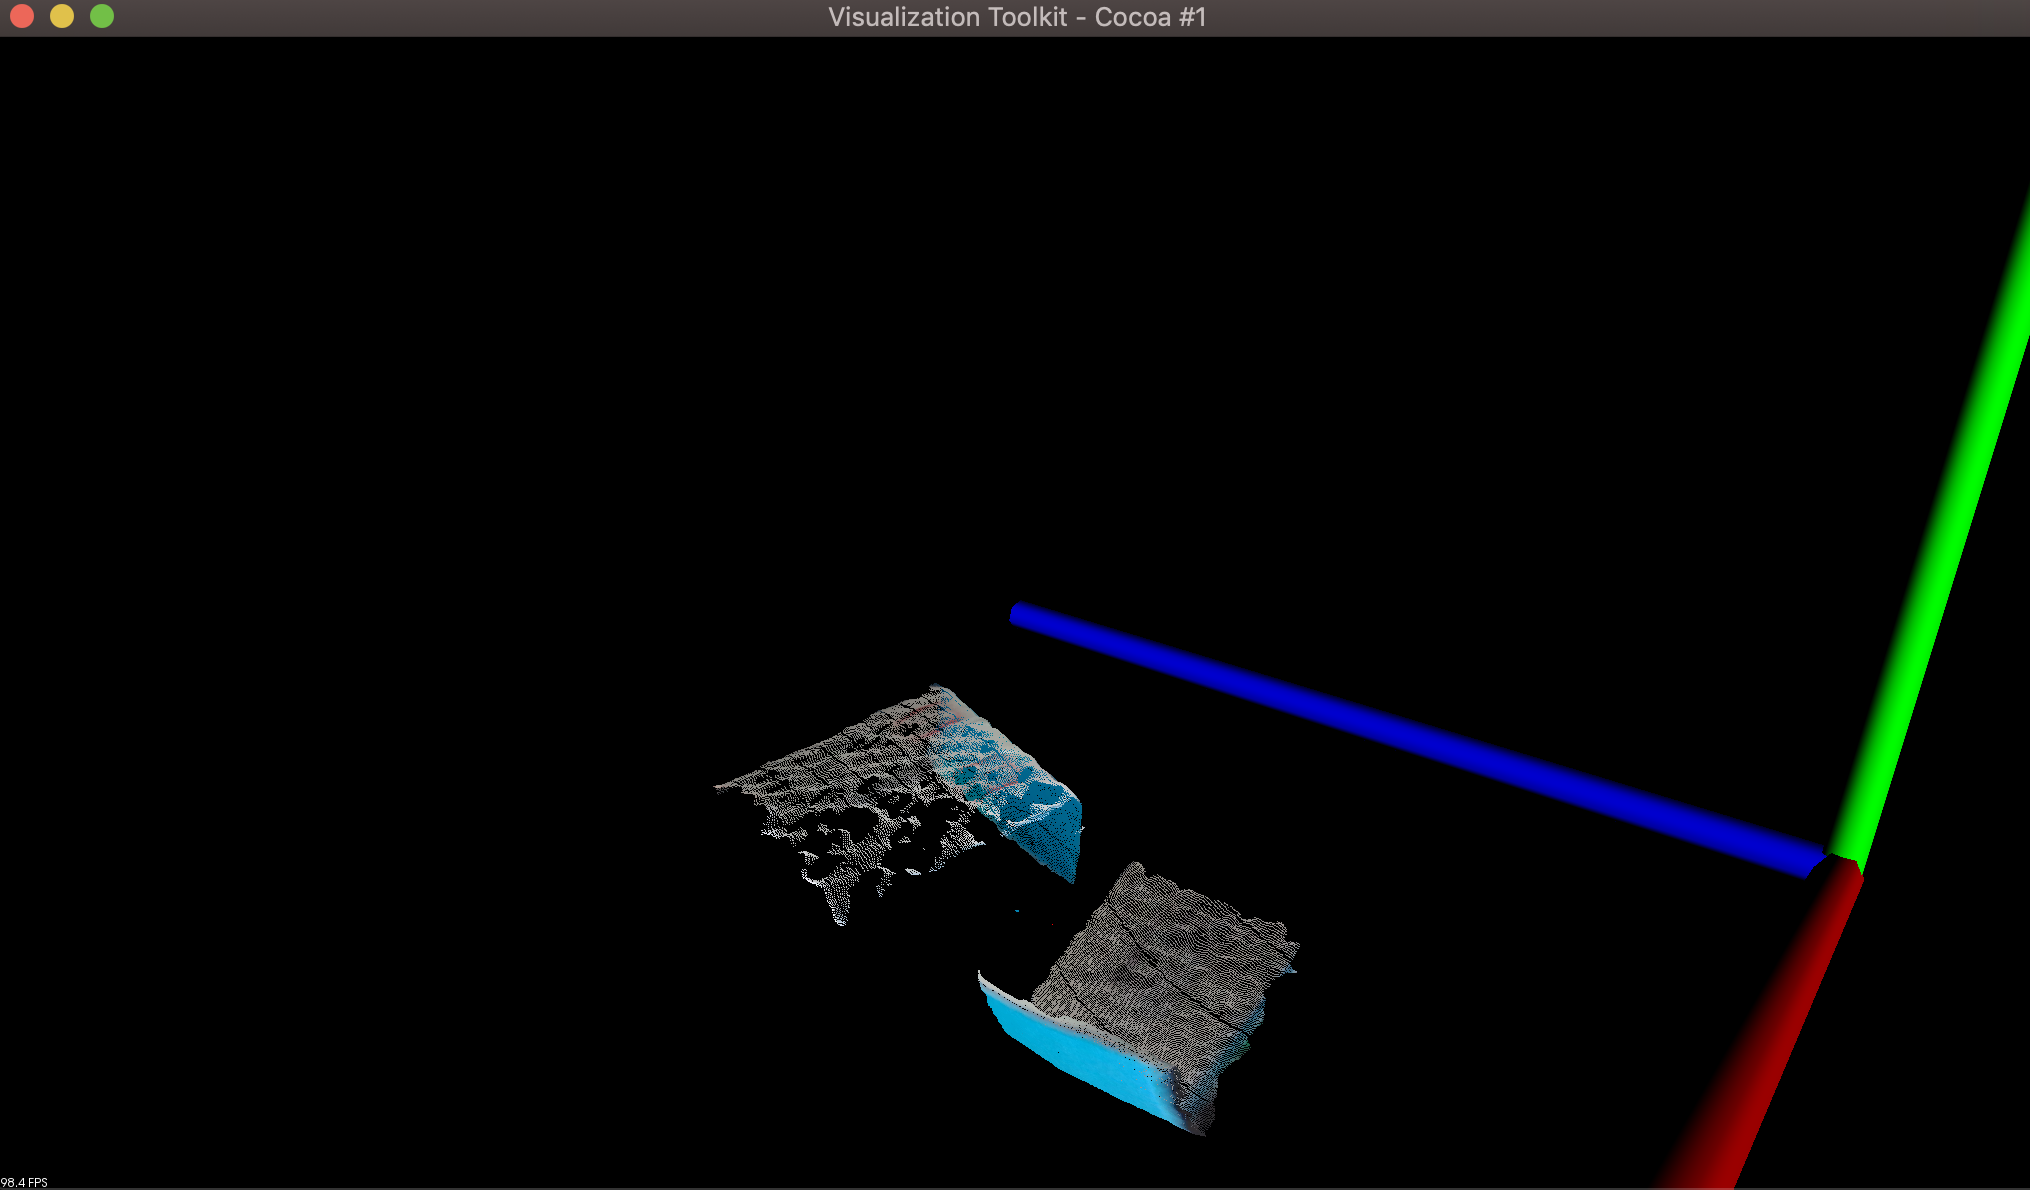
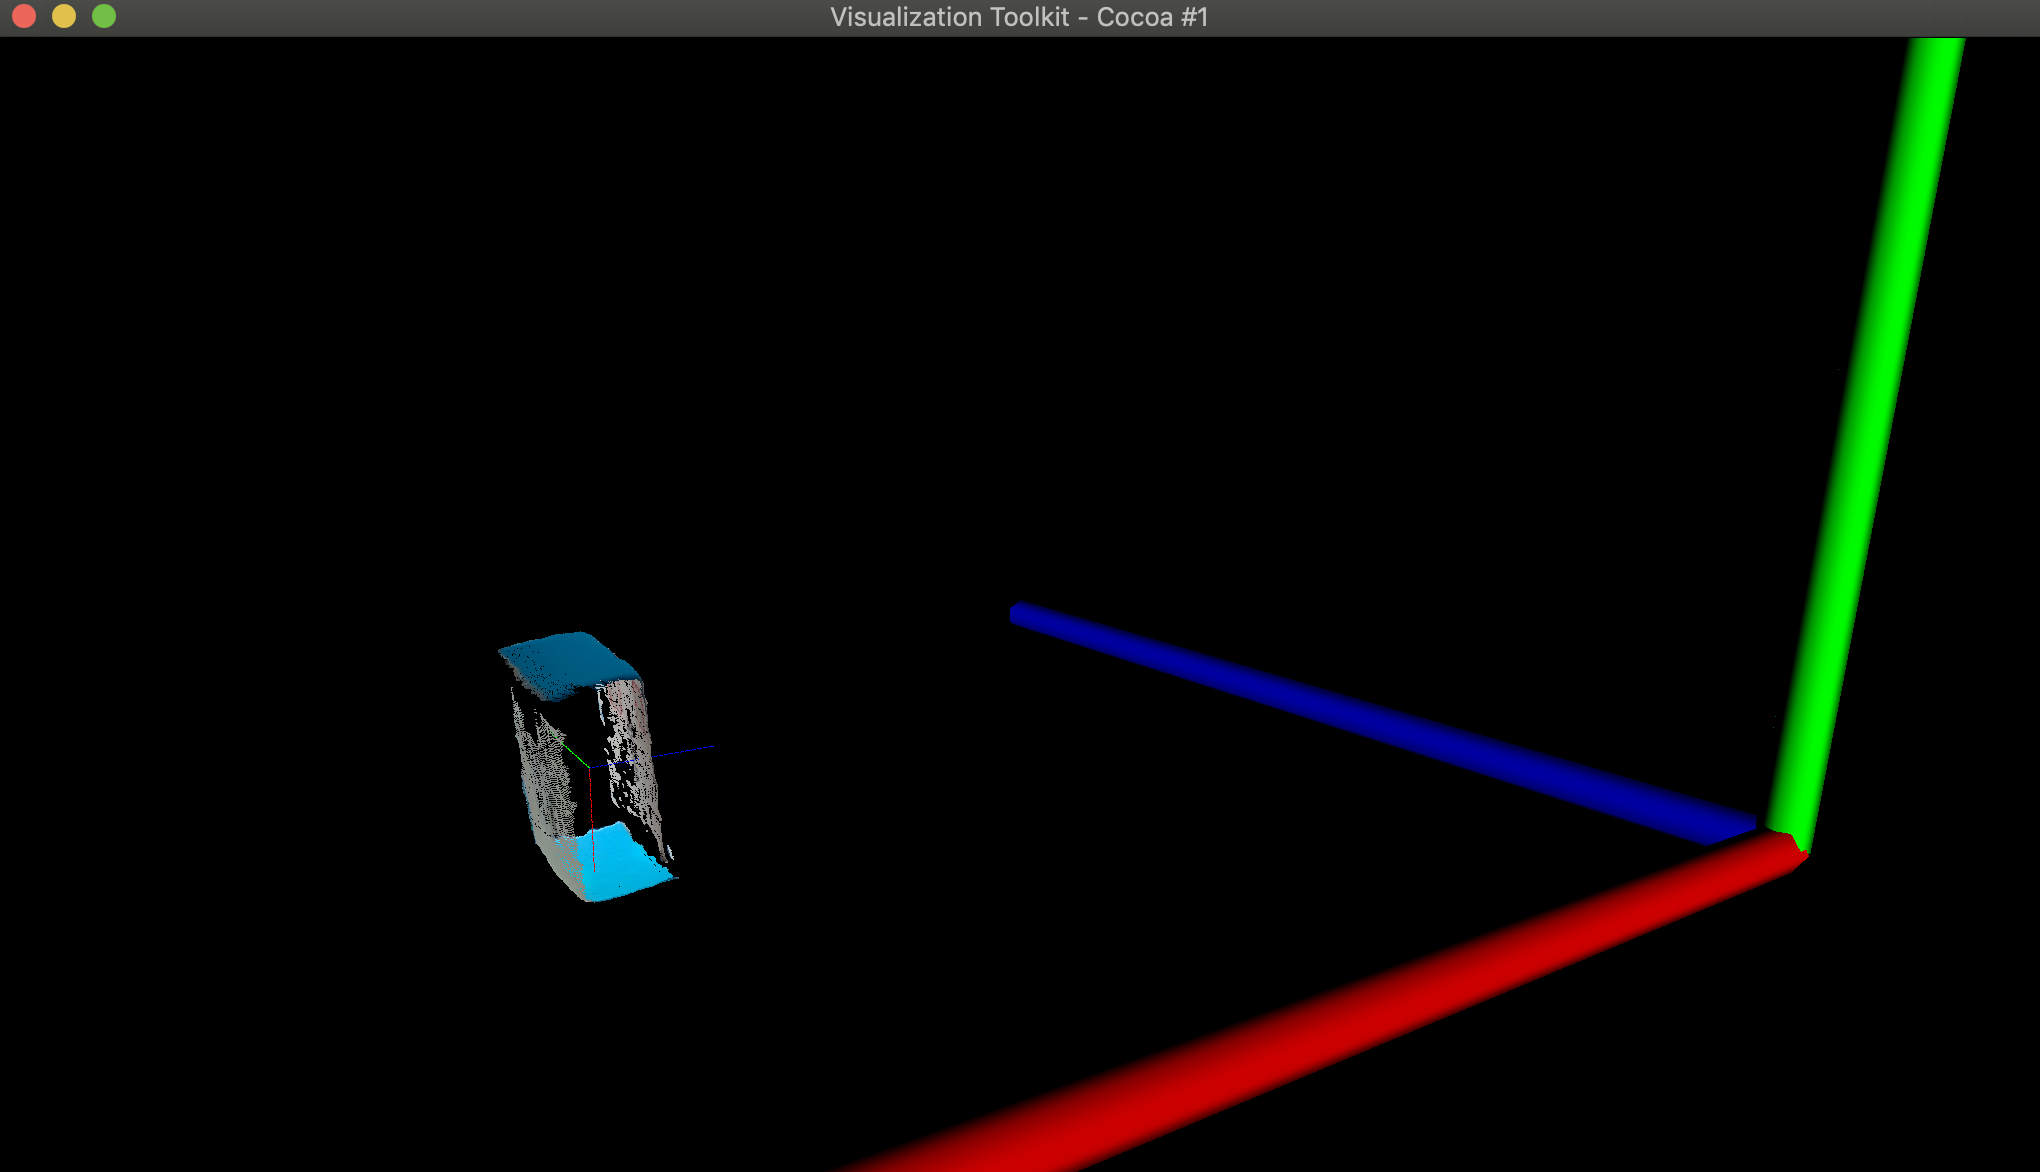
Submit for review.

Changed region(s): [[0.2483, 0.0307, 1.0, 1.0], [0.4034, 0.0, 0.5897, 0.0307], [0.0, 0.9829, 0.031, 1.0]]

diff --git a/main.cpp b/main.cpp
@@ -9,6 +9,7 @@
 #include <pcl/filters/passthrough.h>
 #include <pcl/common/centroid.h>
 #include <pcl/common/transforms.h>
+#include <pcl/features/gasd.h>
 
 #include "png2pcd.h"
 
@@ -19,25 +20,26 @@ using namespace pcl::visualization;
 
 
 const struct cam_intrinsics cam_8022_intrin {
-  923.121216,
-  922.401917,
-  639.088623,
-  374.246979,
-  1280,
-  720
+  .fx     = 923.121216,
+  .fy     = 922.401917,
+  .ppx    = 639.088623,
+  .ppy    = 374.246979,
+  .width  = 1280,
+  .height = 720
 };
 
 const struct cam_intrinsics cam_8213_intrin {
-  931.251526,
-  931.601929,
-  636.607727,
-  367.57843,
-  1280,
-  720
+  .fx     = 931.251526,
+  .fy     = 931.601929,
+  .ppx    = 636.607727,
+  .ppy    = 367.57843,
+  .width  = 1280,
+  .height = 720
 };
 
 
-void point_picking_cb(const visualization::PointPickingEvent& event) {
+void point_picking_cb(const visualization::PointPickingEvent& event)
+{
   if (event.getPointIndex() != -1) {
     float x, y, z;
     event.getPoint(x, y, z);
@@ -53,19 +55,6 @@ void rigid_transform_8022 (PointCloud<PointXYZRGB>& cloud_in, PointCloud<PointXY
       -0.0223710343097415, -0.9919110665818123, 0.12494788039996335, 0.38599111429878424,
       0, 0, 0, 1;
 
-  Eigen::Matrix3f R_T;
-  R_T << cam_extrinsics.topLeftCorner(3, 3).transpose();
-  Eigen::Vector3f t;
-  t << cam_extrinsics.topRightCorner(3, 1);
-
-  Eigen::Matrix4f homo_trans;
-  homo_trans << R_T, -(R_T * t),
-	  Eigen::MatrixXf::Zero(1, 3), 1;
-
-  std::cout << "R_T " << R_T << std::endl;
-  std::cout << "t " << t << std::endl;
-  std::cout << "homo_trans " << homo_trans << std::endl;
-
   transformPointCloud(cloud_in, cloud_out, cam_extrinsics);
 }
 
@@ -77,16 +66,44 @@ void rigid_transform_8213 (PointCloud<PointXYZRGB>& cloud_in, PointCloud<PointXY
       -0.9989978864244434, -0.039585664825330144, 0.020885355152154568, 0.39505420278238745,
       0, 0, 0, 1;
 
-  Eigen::Matrix3f R_T;
-  R_T << cam_extrinsics.topLeftCorner(3, 3).transpose();
-  Eigen::Vector3f t;
-  t << cam_extrinsics.topRightCorner(3, 1);
-
-  Eigen::Matrix4f homo_trans;
-  homo_trans << R_T, -(R_T * t),
-	  Eigen::MatrixXf::Zero(1, 3), 1;
-
   transformPointCloud(cloud_in, cloud_out, cam_extrinsics);
+}
+
+boost::shared_ptr<PCLVisualizer> visualize_box(PointCloud<PointXYZRGB>::Ptr box_cloud_ptr,
+    Eigen::Matrix4f& inv_trans)
+{
+  PointCloud<PointXYZRGB> cust_axis;
+  cust_axis.is_dense = false;
+  cust_axis.resize(300);
+  for (int i = 0; i < 100; i++) {
+    PointXYZRGB axis_x;
+    axis_x.x = 0.001 * i;
+    axis_x.r = 255;
+    cust_axis.points.push_back(axis_x);
+  }
+  for (int i = 0; i < 100; i++) {
+    PointXYZRGB axis_y;
+    axis_y.y = 0.001 * i;
+    axis_y.g = 255;
+    cust_axis.points.push_back(axis_y);
+  }
+  for (int i = 0; i < 100; i++) {
+    PointXYZRGB axis_z;
+    axis_z.z = 0.001 * i;
+    axis_z.b = 255;
+    cust_axis.points.push_back(axis_z);
+  }
+  transformPointCloud(cust_axis, cust_axis, inv_trans);
+
+  *box_cloud_ptr += cust_axis;
+
+  boost::shared_ptr<PCLVisualizer> viewer (new PCLVisualizer ("3D Viewer"));
+  viewer->addPointCloud(box_cloud_ptr, "box");
+  viewer->registerPointPickingCallback(point_picking_cb);
+  viewer->addCoordinateSystem (1.0);
+  viewer->initCameraParameters();
+
+  return viewer;
 }
 
 int main(int argc, char** argv) {
@@ -116,64 +133,76 @@ int main(int argc, char** argv) {
     print_error("Failed to generate PointCloud.\n");
     return -1;
   }
-#if 0
+
   /**
-   * Using PassThrough Filter to get box
-   */
-  PassThrough<PointXYZRGB> pass;
-  pass.setInputCloud(cloud_8022_ptr);
-  pass.setFilterFieldName("y");
-  pass.setFilterLimits(0, 0.15f);
-  pass.filter(*cloud_8022_ptr);
-
-  pass.setInputCloud(cloud_8022_ptr);
-  pass.setFilterFieldName("z");
-  pass.setFilterLimits(0.4f, 0.7f);
-  pass.filter(*cloud_8022_ptr);
-
-  pass.setInputCloud(cloud_8213_ptr);
-  pass.setFilterFieldName("x");
-  pass.setFilterLimits(0, 0.2f);
-  pass.filter(*cloud_8213_ptr);
-
-  pass.setInputCloud(cloud_8213_ptr);
-  pass.setFilterFieldName("z");
-  pass.setFilterLimits(0.4f, 0.6f);
-  pass.filter(*cloud_8213_ptr);
-#endif
-  /**
-   * Rigid homogeneous transform camera coordinate to
+   * Rigid homogeneous transform camera coordinate back to
    * world coordinate.
    */
   rigid_transform_8022(*cloud_8022_ptr, *cloud_8022_ptr);
   rigid_transform_8213(*cloud_8213_ptr, *cloud_8213_ptr);
 
   /**
-   * Concatenate two halves and compute centroid of the box
+   * Concatenate two half-box
    */
   PointCloud<PointXYZRGB>::Ptr box_cloud_ptr (new PointCloud<PointXYZRGB>);
   *box_cloud_ptr = *cloud_8022_ptr;
   *box_cloud_ptr += *cloud_8213_ptr;
 
-  Eigen::Vector4f centroid;
-  compute3DCentroid(*box_cloud_ptr, centroid);
-  PointXYZRGB center_p;
-  center_p.r = 255;
-  center_p.g = 0;
-  center_p.b = 0;
-  center_p.x = centroid(0);
-  center_p.y = centroid(1);
-  center_p.z = centroid(2);
-  box_cloud_ptr->points.push_back(center_p);
-  pcl::console::print_info("Centroid x:%f y:%f z:%f\n",
-      centroid(0), centroid(1), centroid(2));
+  /**
+   * Using PassThrough Filter to get box
+   */
+  PassThrough<PointXYZRGB> pass;
 
-  visualization::PCLVisualizer viewer("3D viewer");
-  viewer.addPointCloud(box_cloud_ptr, "box");
-  viewer.registerPointPickingCallback(point_picking_cb);
-  viewer.addCoordinateSystem (1.0);
-  viewer.initCameraParameters();
-  viewer.spin();
+  pass.setInputCloud(box_cloud_ptr);
+  pass.setFilterFieldName("x");
+  pass.setFilterLimits(0.6f, 0.9f);
+  pass.filter(*box_cloud_ptr);
+
+  pass.setInputCloud(box_cloud_ptr);
+  pass.setFilterFieldName("y");
+  pass.setFilterLimits(-0.15f, 0.15f);
+  pass.filter(*box_cloud_ptr);
+
+  pass.setInputCloud(box_cloud_ptr);
+  pass.setFilterFieldName("z");
+  pass.setFilterLimits(0.3f, 0.613f);
+  pass.filter(*box_cloud_ptr);
+
+  /**
+   * Using Globally Aligned Spatial Distribution (GASD) descriptors
+   * to estimate box pose
+   */
+  GASDColorEstimation<PointXYZRGB, pcl::GASDSignature984> gasd;
+  gasd.setInputCloud(box_cloud_ptr);
+  PointCloud<pcl::GASDSignature984> descriptor;
+  gasd.compute(descriptor);
+  Eigen::Matrix4f transformation = gasd.getTransform();
+  print_info ("Alignment transform matrix:\n");
+  print_info ("    | %6.3f %6.3f %6.3f | \n", transformation (0,0), transformation (0,1), transformation (0,2));
+  print_info ("R = | %6.3f %6.3f %6.3f | \n", transformation (1,0), transformation (1,1), transformation (1,2));
+  print_info ("    | %6.3f %6.3f %6.3f | \n", transformation (2,0), transformation (2,1), transformation (2,2));
+  print_info ("\n");
+  print_info ("t = < %0.3f, %0.3f, %0.3f >\n", transformation (0,3), transformation (1,3), transformation (2,3));
+  print_info ("\n");
+
+  /**
+   * GASD aligned box shape to our world frame, thus the
+   * inverse translation (-R_T * t) of above alignment matrix
+   * is where the box center located.
+   */
+  Eigen::Matrix3f R_T;
+  R_T = transformation.topLeftCorner(3, 3).transpose();
+  Eigen::Vector3f t;
+  t = transformation.topRightCorner(3, 1);
+  Eigen::Matrix4f inv_trans;
+  inv_trans << R_T, -R_T * t,
+              Eigen::MatrixXf::Zero(1, 3), 1;
+  print_info("Box center is at x:%f y:%f z:%f\n",
+            inv_trans(0, 3), inv_trans(1, 3), inv_trans(2, 3));
+
+  boost::shared_ptr<PCLVisualizer> viewer;
+  viewer = visualize_box(box_cloud_ptr, inv_trans);
+  viewer->spin();
 
   return 0;
 }

diff --git a/png2pcd.cpp b/png2pcd.cpp
@@ -14,7 +14,7 @@ using namespace pcl::console;
  * The depth pixel has value ranges from 0-65535,
  * where the scale is 10^-4: pixel value of 1000 means 0.1 meter in depth.
  */
-const float depth_unit_magic = 10000.0f;
+const float depth_unit_magic = 0.0001f;
 
 int png2pcd::generate_pointclouds(int arg_base, char **argv,
                                   const struct cam_intrinsics *intrin,
@@ -64,12 +64,11 @@ int png2pcd::generate_pointclouds(int arg_base, char **argv,
   rgb_depth_cloud.height = dimensions[1];
   rgb_depth_cloud.is_dense = false;
   rgb_depth_cloud.resize (rgb_depth_cloud.width * rgb_depth_cloud.height);
-  float h_fov = atan2(intrin->ppx + 0.5f, intrin->fx) +
-	  atan2(intrin->width - (intrin->ppx + 0.5f), intrin->fx);
-  float v_fov = atan2(intrin->ppy + 0.5f, intrin->fy) +
-	  atan2(intrin->height - (intrin->ppy + 0.5f), intrin->fy);
-  float width = std::tan(h_fov / 2) * 2;
-  float height = std::tan(v_fov / 2) * 2;
+
+  float cloud_width = ((intrin->ppx) / intrin->fx) +
+      ((intrin->width - (intrin->ppx)) / intrin->fx);
+  float cloud_height = ((intrin->ppy) / intrin->fy) +
+      ((intrin->height - (intrin->ppy)) / intrin->fy);
 
   for (int y = 0; y < dimensions[1]; y++)
   {
@@ -78,16 +77,12 @@ int png2pcd::generate_pointclouds(int arg_base, char **argv,
       pixel[0] = color_image_data->GetScalarComponentAsDouble (x, y, 0, 0);
       pixel[1] = color_image_data->GetScalarComponentAsDouble (x, y, 0, 1);
       pixel[2] = color_image_data->GetScalarComponentAsDouble (x, y, 0, 2);
-      depth = depth_image_data->GetScalarComponentAsFloat (x, y, 0, 0) / depth_unit_magic;
+      depth = depth_image_data->GetScalarComponentAsFloat (x, y, 0, 0) * depth_unit_magic;
 
       PointXYZRGB xyzrgb;
-	  float px = (x - intrin->width / 2.0) / intrin->width * width * depth;
-	  float py = (intrin->height / 2.0 - y) / intrin->height * height * depth;
 
-      // In our camera frame, X-Axis starts at ppx, pointing left,
-      // assign minus sign to px to correct mirroring.
-      xyzrgb.x = px;
-      xyzrgb.y = py;
+      xyzrgb.x = (x - intrin->width / 2.0) / intrin->width * cloud_width * depth;
+      xyzrgb.y = (intrin->height / 2.0 - y) / intrin->height * cloud_height * depth;
       xyzrgb.z = depth;
       xyzrgb.r = static_cast<uint8_t> (pixel[0]);
       xyzrgb.g = static_cast<uint8_t> (pixel[1]);

diff --git a/README.md b/README.md
@@ -7,14 +7,12 @@
 ---
 #### My thoughts in pursuing this task
 1. Convert the aligned color & depth images to PointCloud for each RGB-D camera according to the given cameras' intrinsics.
-2. Then I used PCL PassThrough filter to get the corresponding box points.
-3. By now I have two half-box PointClouds in their relative camera frame. Since each cameras' extrinsics is provided, I applied a homogeneous transform to convert each PointCloud from camera frame to world frame.
-4. Concatenate these two half-box PointClouds, I get a 360-degree view of the the whole box with respect to the world frame.
-5. Compute centroid to get the center of the box.
+2. By now I have two half-box PointClouds in their relative camera frame. Since each cameras' extrinsics is provided, I applied a homogeneous transform to convert each PointCloud from camera frame to world frame.
+3. Then I used PCL PassThrough filter to get the corresponding box points.
+4. Concatenate these two filtered half-box PointClouds, I get a 360-degree view of the the whole box with respect to world frame.
+5. I tried to estimate the box pose as this [GASD tutorial](http://pointclouds.org/documentation/tutorials/gasd_estimation.php#gasd-estimation) suggests. It generated a homogeneous transform matrix that aligns box to the origin of world frame. So the inverse translation of this matrix tells me where the box center is.
 6. Using PCL Visualizer to show the box and `shift + mouse left click` to output point coordinate in console.
 
-#### What I've accomplished and the issues
-I implemented all steps above, however, the concatenated PointCloud shows these two-half boxes is not *match* as it should be. There's some offset especially in the Z-Axis. I can't really figure it out by now, any thoughts on this?
 
 ![alt text][image1]
 
@@ -25,3 +23,5 @@ I implemented all steps above, however, the concatenated PointCloud shows these 
 
 #### Running environment
 MacOS Mojave + Homebrew installed Point Cloud Library (PCL).
+
+Win7 + msvc2017 + PCL-1.9.1-AllInOne-msvc2017-win64.exe
